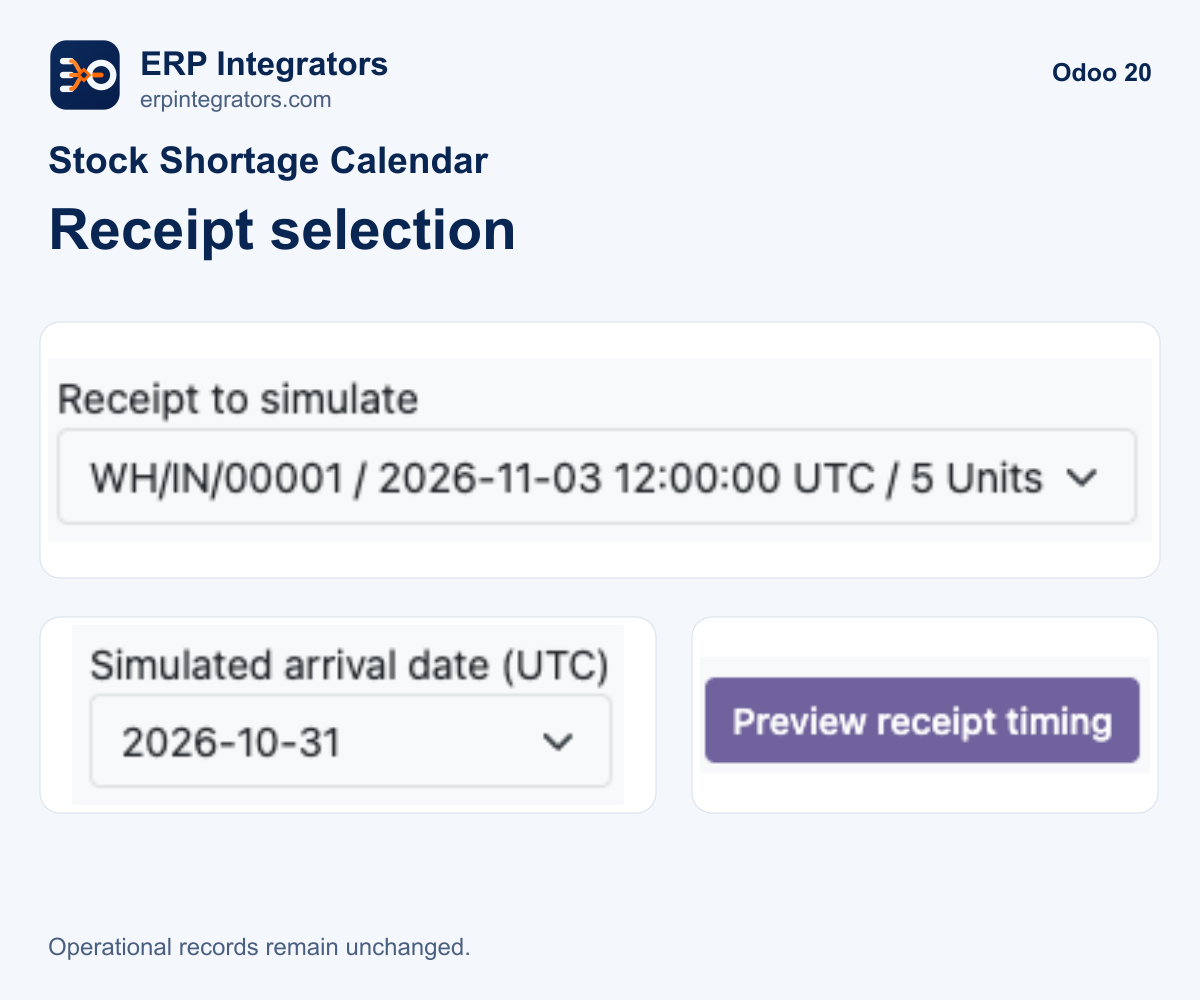
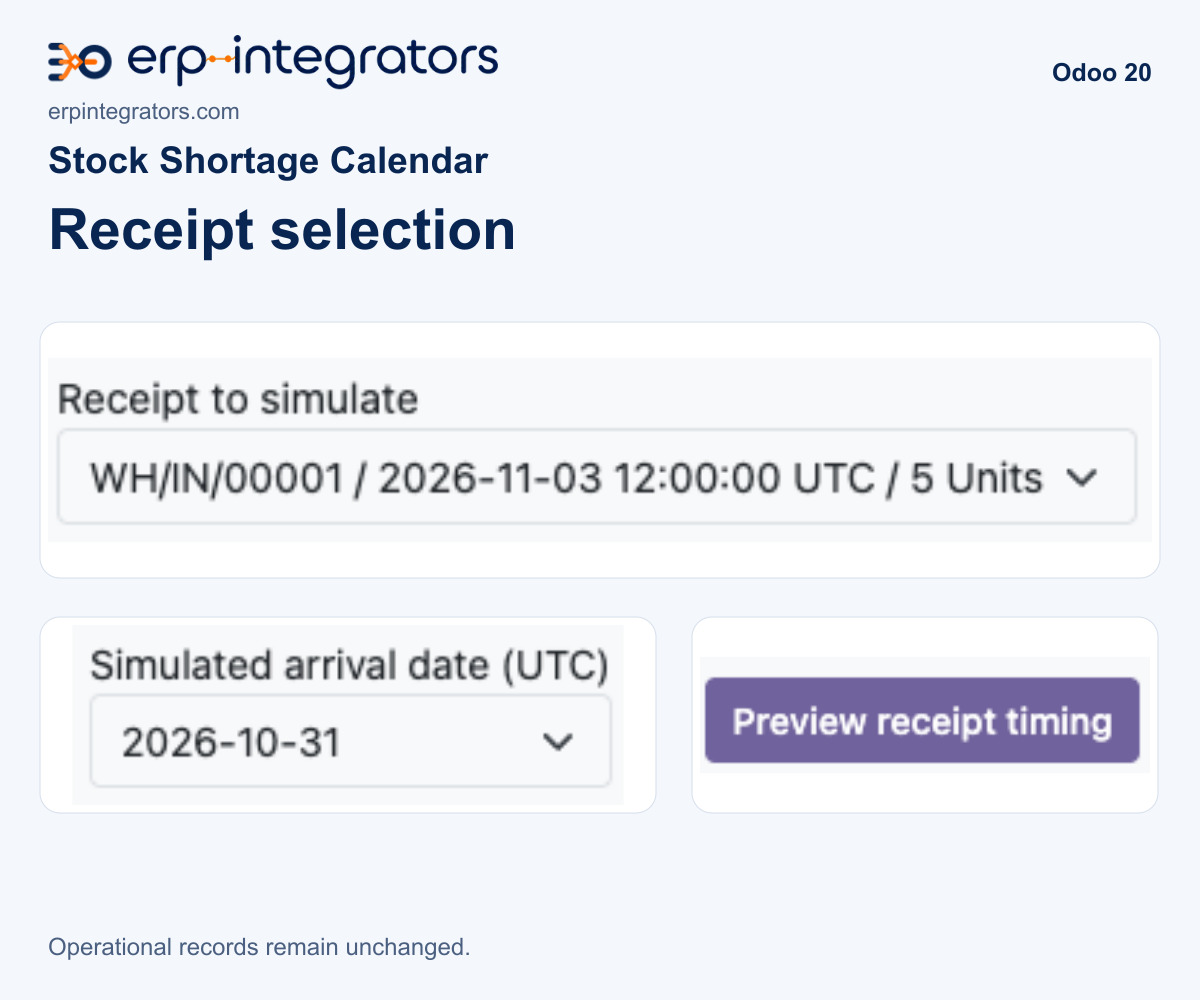
Apply the shared marketplace cover and connected wordmark

Changed region(s): [[0.0308, 0.031, 0.4317, 0.124]]

diff --git a/erpintegrators_daily_stock_matrix/static/description/index.html b/erpintegrators_daily_stock_matrix/static/description/index.html
@@ -1,5 +1,5 @@
 <section class="container py-4" style="font-family:Arial,sans-serif;color:#092653;max-width:1100px;margin:0 auto;padding:24px">
-  <div class="d-flex align-items-center mb-4" style="color:#092653"><img src="logo.png" width="64" height="64" alt="ERP Integrators" class="mr-3"/><div><p class="mb-1" style="font-size:24px;font-weight:600">ERP Integrators</p><p class="mb-0">erpintegrators.com | Solvync Inc.</p></div></div>
+  <div class="mb-4"><img src="logo.png" width="450" height="56" alt="ERP Integrators" style="display:block;width:450px;max-width:100%;height:auto"/><p class="mt-2 mb-0">erpintegrators.com | Solvync Inc.</p></div>
   <h1>Stock Shortage Calendar</h1>
   <p>Review daily stock forecasts, assign shortage follow-ups, compare saved changes and preview receipt timing.</p>
   <p>Odoo 20 Community and Enterprise | Inventory required | LGPL-3</p>
